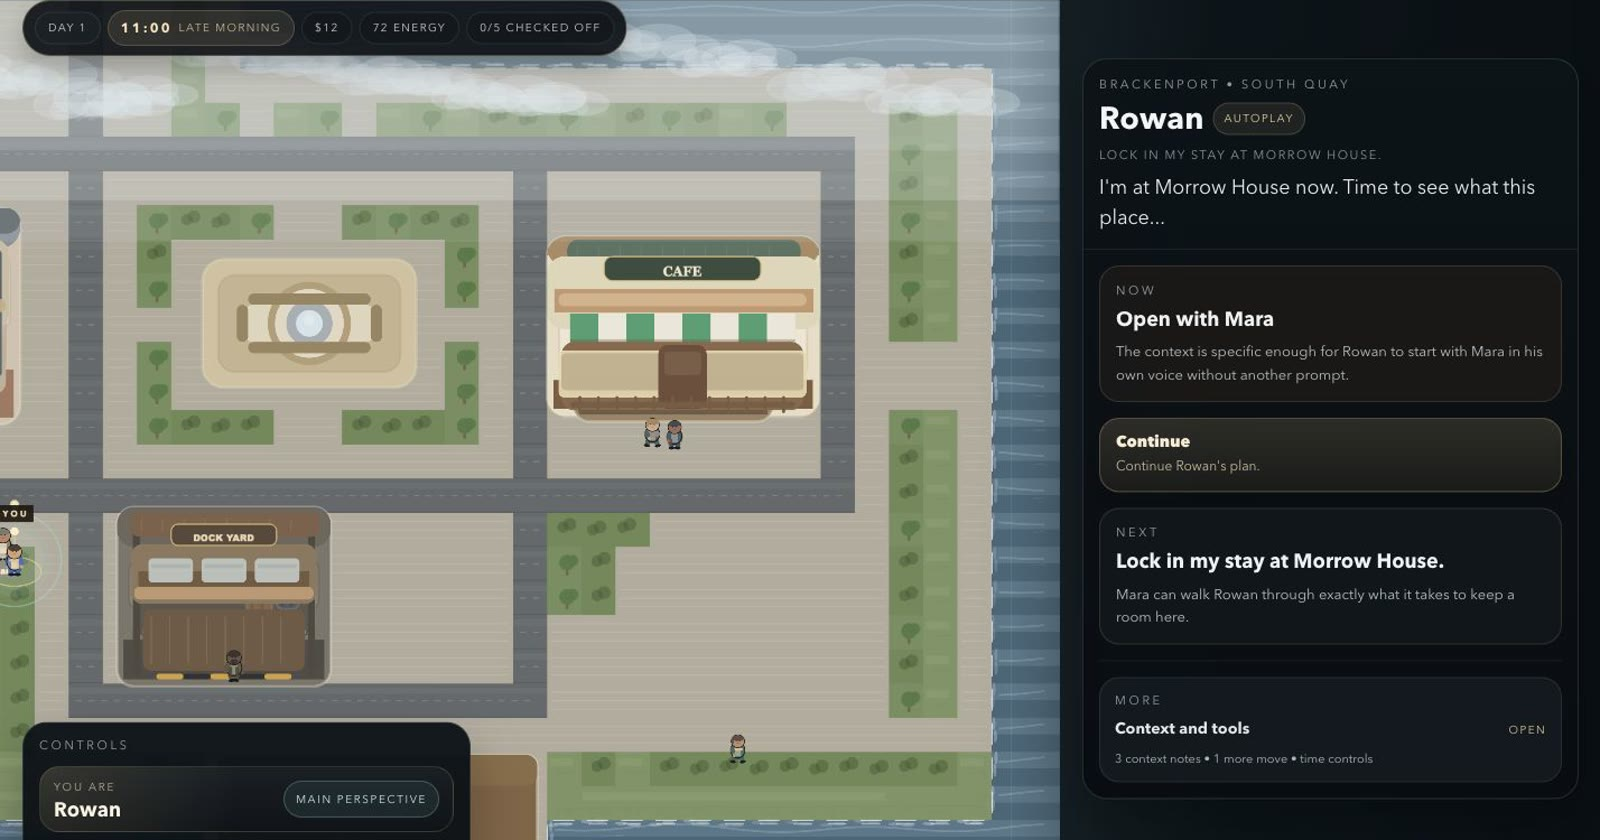
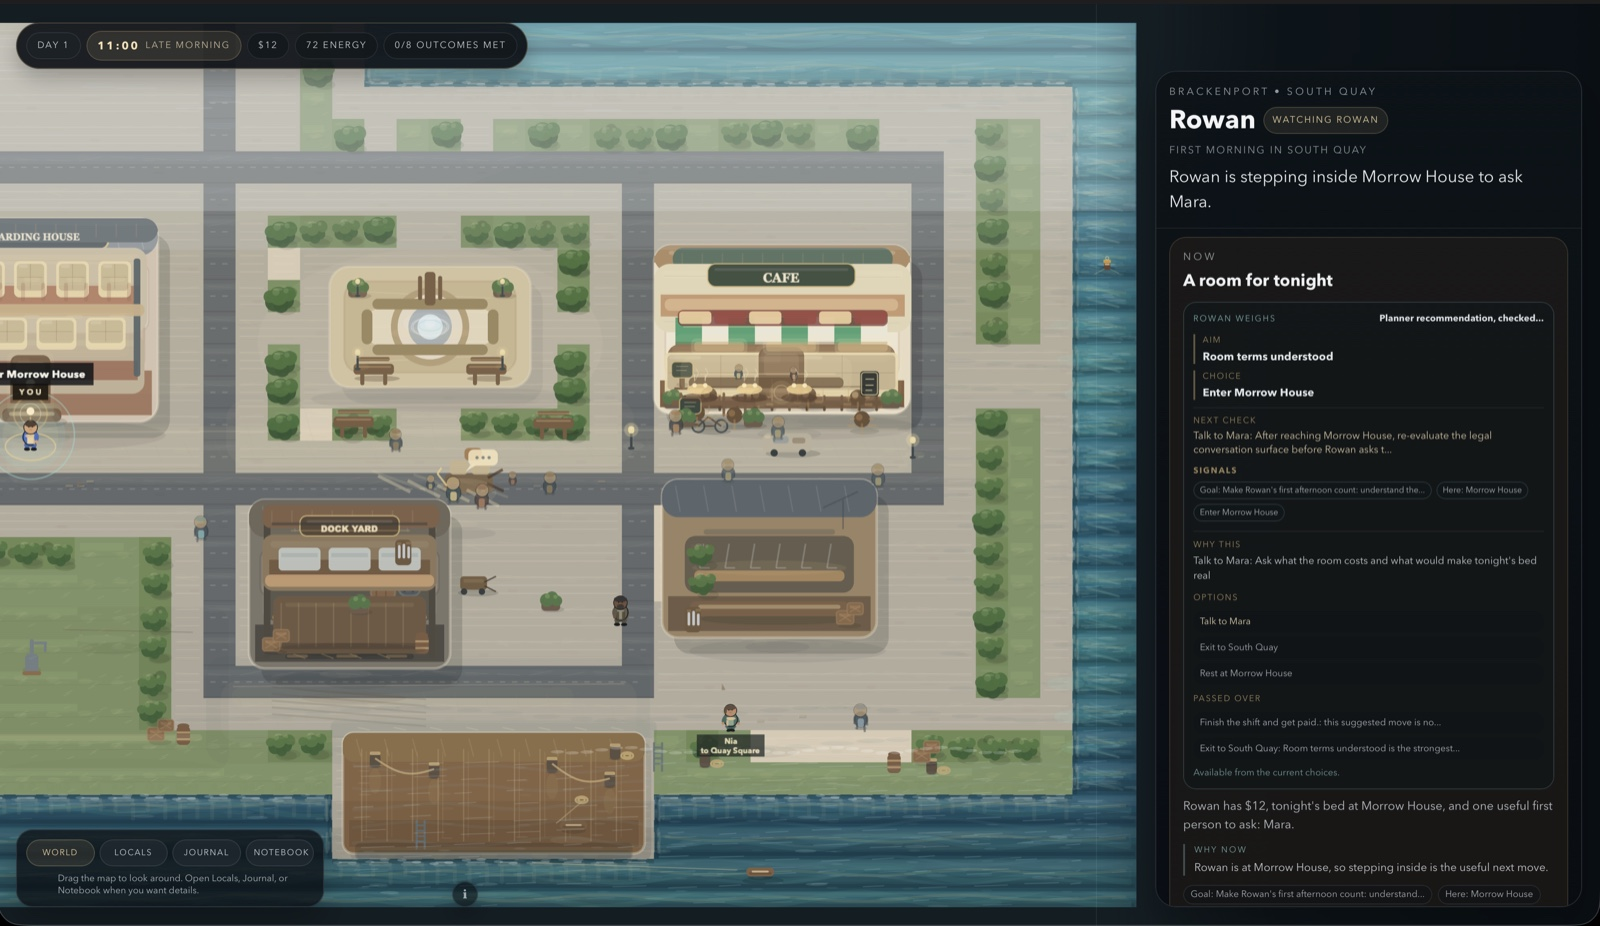
Update homepage profile links

diff --git a/index.html b/index.html
@@ -619,6 +619,7 @@
                     <a href="#selected-work" class="inline-flex w-full items-center justify-center rounded-full border border-slate-300 bg-slate-100/82 px-5 py-2 text-sm font-semibold text-slate-900 transition hover:border-slate-400 hover:bg-white/96 focus-visible:outline-none focus-visible:ring-2 focus-visible:ring-sky-500 sm:w-auto dark:border-slate-500 dark:bg-slate-800/88 dark:text-slate-100 dark:hover:border-slate-400 dark:hover:bg-slate-800/96">View selected projects</a>
                     <a href="https://x.com/0_branavan_1" target="_blank" rel="noopener noreferrer" class="inline-flex w-full items-center justify-center rounded-full border border-slate-300/90 bg-white/42 px-5 py-2 text-sm font-medium text-slate-700 transition hover:border-slate-400 hover:bg-white/68 focus-visible:outline-none focus-visible:ring-2 focus-visible:ring-sky-500 sm:w-auto dark:border-slate-600 dark:bg-slate-800/34 dark:text-slate-200 dark:hover:border-slate-500 dark:hover:bg-slate-800/52">Follow on X</a>
                     <a href="https://www.linkedin.com/in/branavanselvasingham" target="_blank" rel="noopener noreferrer" class="inline-flex w-full items-center justify-center rounded-full border border-slate-300/90 bg-white/42 px-5 py-2 text-sm font-medium text-slate-700 transition hover:border-slate-400 hover:bg-white/68 focus-visible:outline-none focus-visible:ring-2 focus-visible:ring-sky-500 sm:w-auto dark:border-slate-600 dark:bg-slate-800/34 dark:text-slate-200 dark:hover:border-slate-500 dark:hover:bg-slate-800/52">LinkedIn</a>
+                    <a href="https://github.com/BranavanSelvasingham" target="_blank" rel="noopener noreferrer" class="inline-flex w-full items-center justify-center rounded-full border border-slate-300/90 bg-white/42 px-5 py-2 text-sm font-medium text-slate-700 transition hover:border-slate-400 hover:bg-white/68 focus-visible:outline-none focus-visible:ring-2 focus-visible:ring-sky-500 sm:w-auto dark:border-slate-600 dark:bg-slate-800/34 dark:text-slate-200 dark:hover:border-slate-500 dark:hover:bg-slate-800/52">GitHub</a>
                 </div>
             </div>
         </section>
@@ -662,14 +663,17 @@
                     </div>
                 </article>
                 <article class="curated-card curated-card-visual group flex h-full flex-col overflow-hidden rounded-2xl border border-slate-200/90 bg-white/90 p-0 shadow-[0_14px_36px_-28px_rgba(2,6,23,0.5)] transition hover:-translate-y-1 hover:border-sky-300 hover:shadow-[0_22px_52px_-34px_rgba(2,6,23,0.55)] dark:border-slate-700 dark:bg-slate-900/72 dark:hover:border-sky-700">
-                    <div class="work-preview-frame">
+                    <a href="https://manylives-sim.branavan.com" target="_blank" rel="noopener noreferrer" class="work-preview-frame" aria-label="Open the Many Lives project site">
                         <img class="work-preview-image" src="assets/media/selected-work/many-lives.jpg" alt="Many Lives simulation interface showing a town map and a live conversation panel." loading="lazy">
-                    </div>
+                    </a>
                     <div class="curated-card-body flex flex-1 flex-col">
                         <h3 class="text-xl font-semibold leading-snug text-slate-900 dark:text-white">Many Lives</h3>
                         <p class="mt-3 text-sm leading-relaxed text-slate-600 dark:text-slate-300">A multi-agent simulation exploring coordination, escalation, and persistent behavior in a shared world.</p>
                         <p class="mt-2 text-sm text-slate-500 dark:text-slate-400">Built to think through how agents behave over time, not just in isolated turns.</p>
-                        <a href="#many-lives" class="curated-link mt-5 inline-flex text-sm font-semibold text-sky-700 transition group-hover:text-sky-800 dark:text-sky-300 dark:group-hover:text-sky-200">See details</a>
+                        <div class="mt-5 flex flex-wrap gap-x-5 gap-y-2">
+                            <a href="https://manylives-sim.branavan.com" target="_blank" rel="noopener noreferrer" class="curated-link inline-flex text-sm font-semibold text-sky-700 transition group-hover:text-sky-800 dark:text-sky-300 dark:group-hover:text-sky-200">Project site</a>
+                            <a href="#many-lives" class="curated-link inline-flex text-sm font-semibold text-sky-700 transition group-hover:text-sky-800 dark:text-sky-300 dark:group-hover:text-sky-200">See details</a>
+                        </div>
                     </div>
                 </article>
                 <article class="curated-card curated-card-visual group flex h-full flex-col overflow-hidden rounded-2xl border border-slate-200/90 bg-white/90 p-0 shadow-[0_14px_36px_-28px_rgba(2,6,23,0.5)] transition hover:-translate-y-1 hover:border-sky-300 hover:shadow-[0_22px_52px_-34px_rgba(2,6,23,0.55)] dark:border-slate-700 dark:bg-slate-900/72 dark:hover:border-sky-700">

diff --git a/styles.css b/styles.css
@@ -67,6 +67,11 @@ body {
     box-shadow: none;
 }
 
+.work-preview-frame:focus-visible {
+    outline: 3px solid color-mix(in srgb, var(--accent) 72%, white);
+    outline-offset: 3px;
+}
+
 .work-preview-image,
 .tile-disclosure-preview img {
     width: 100%;